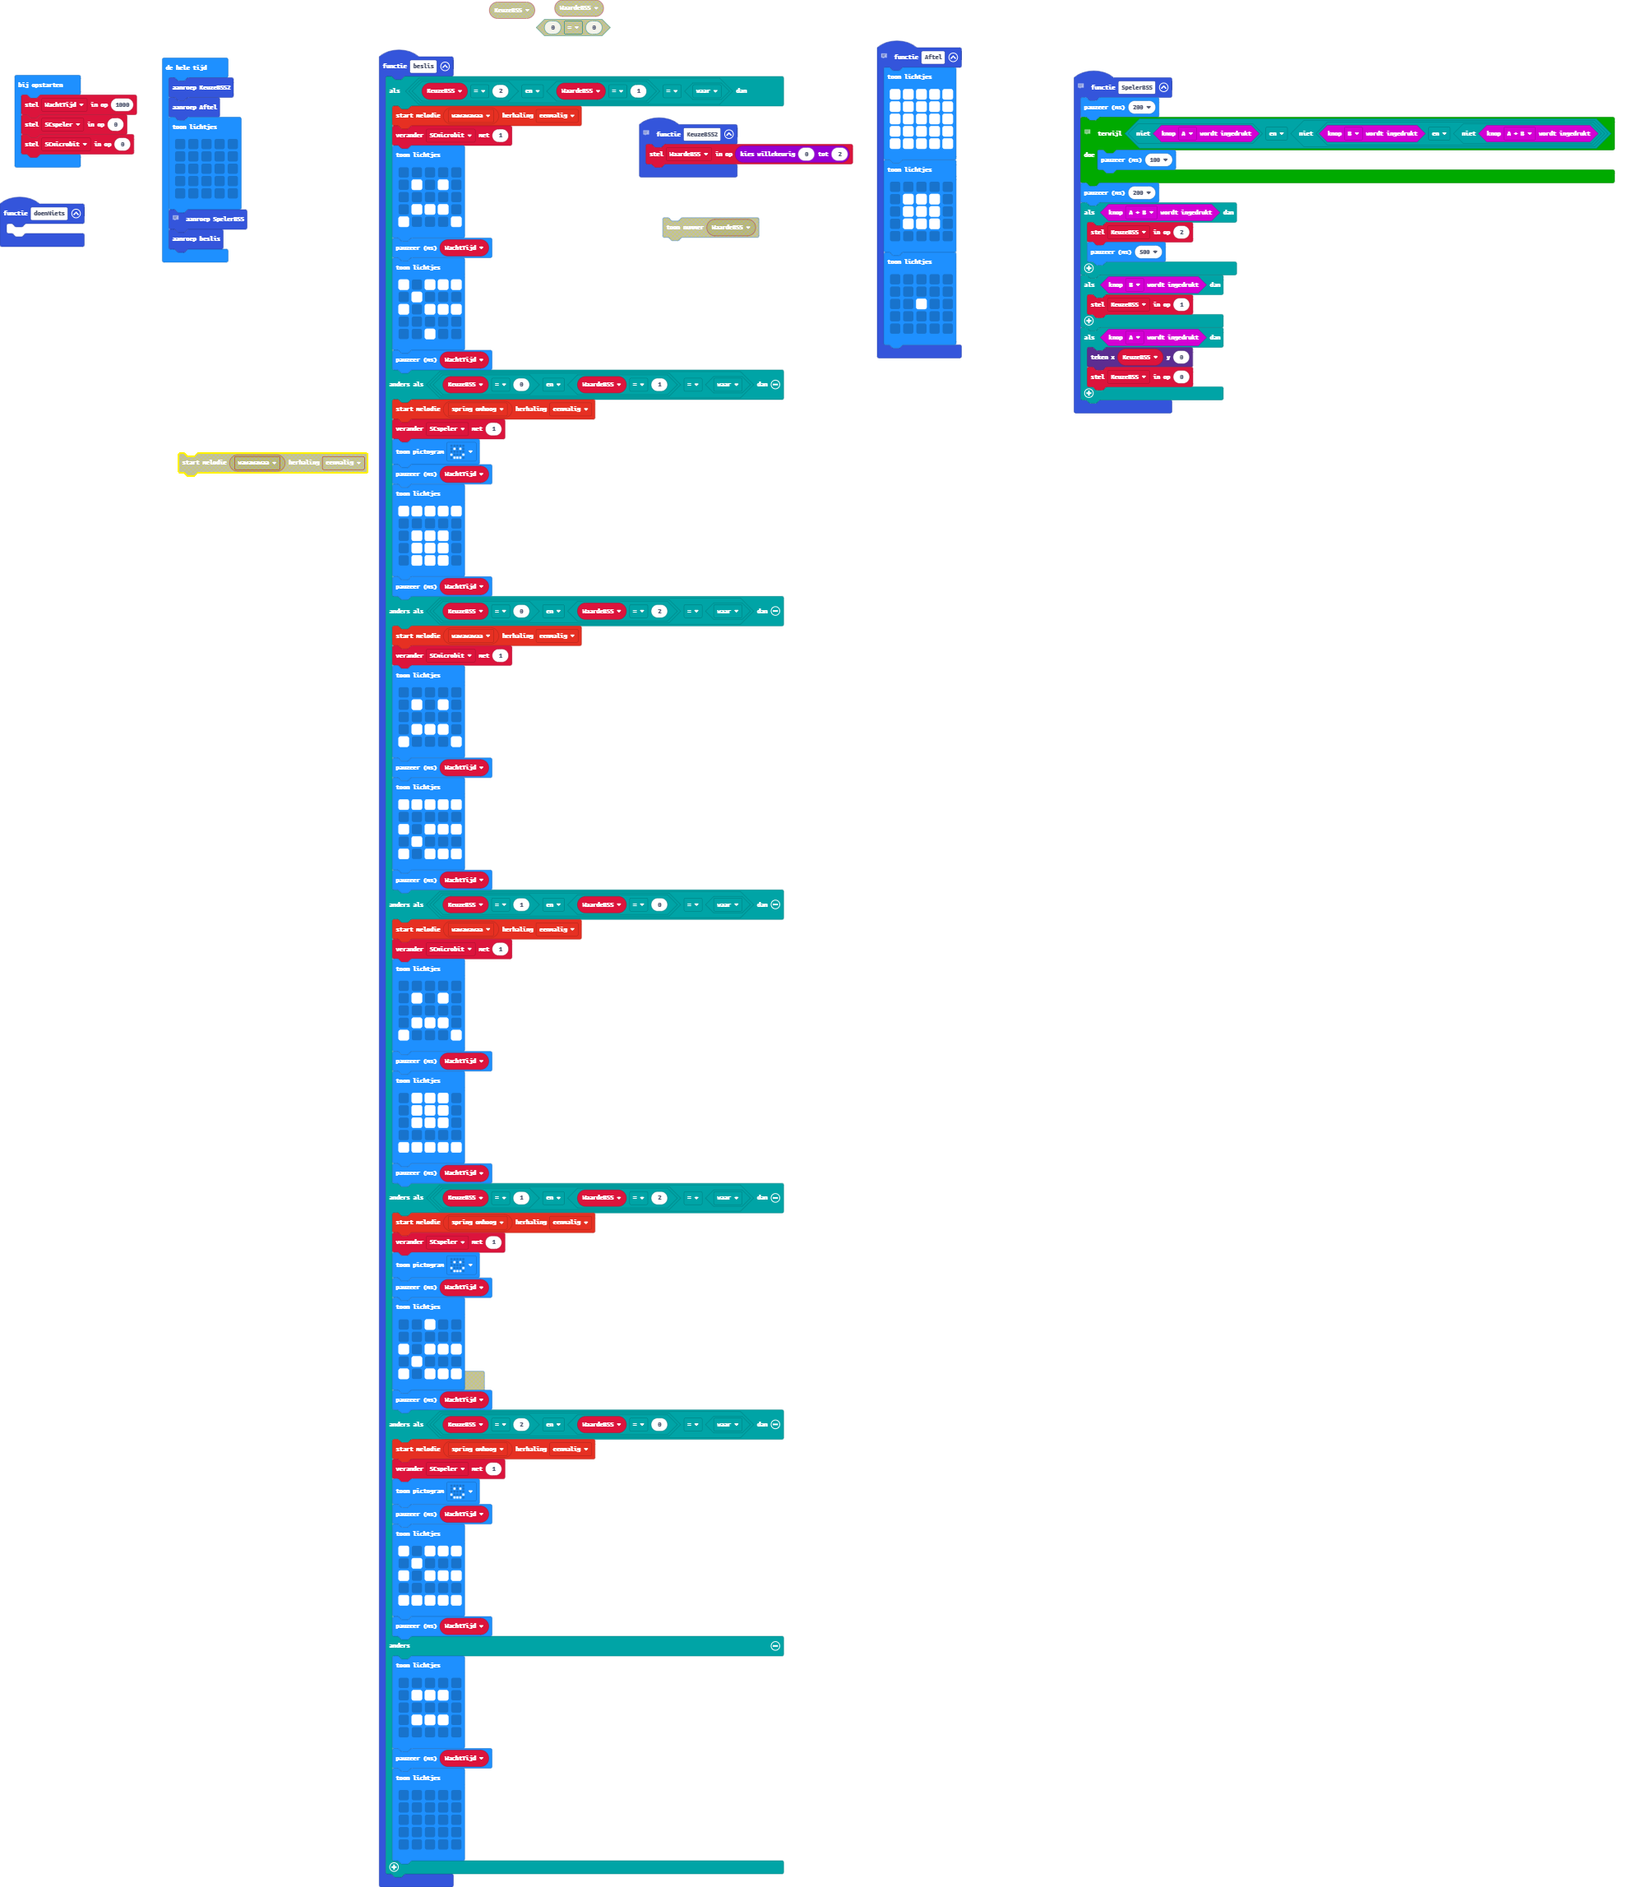
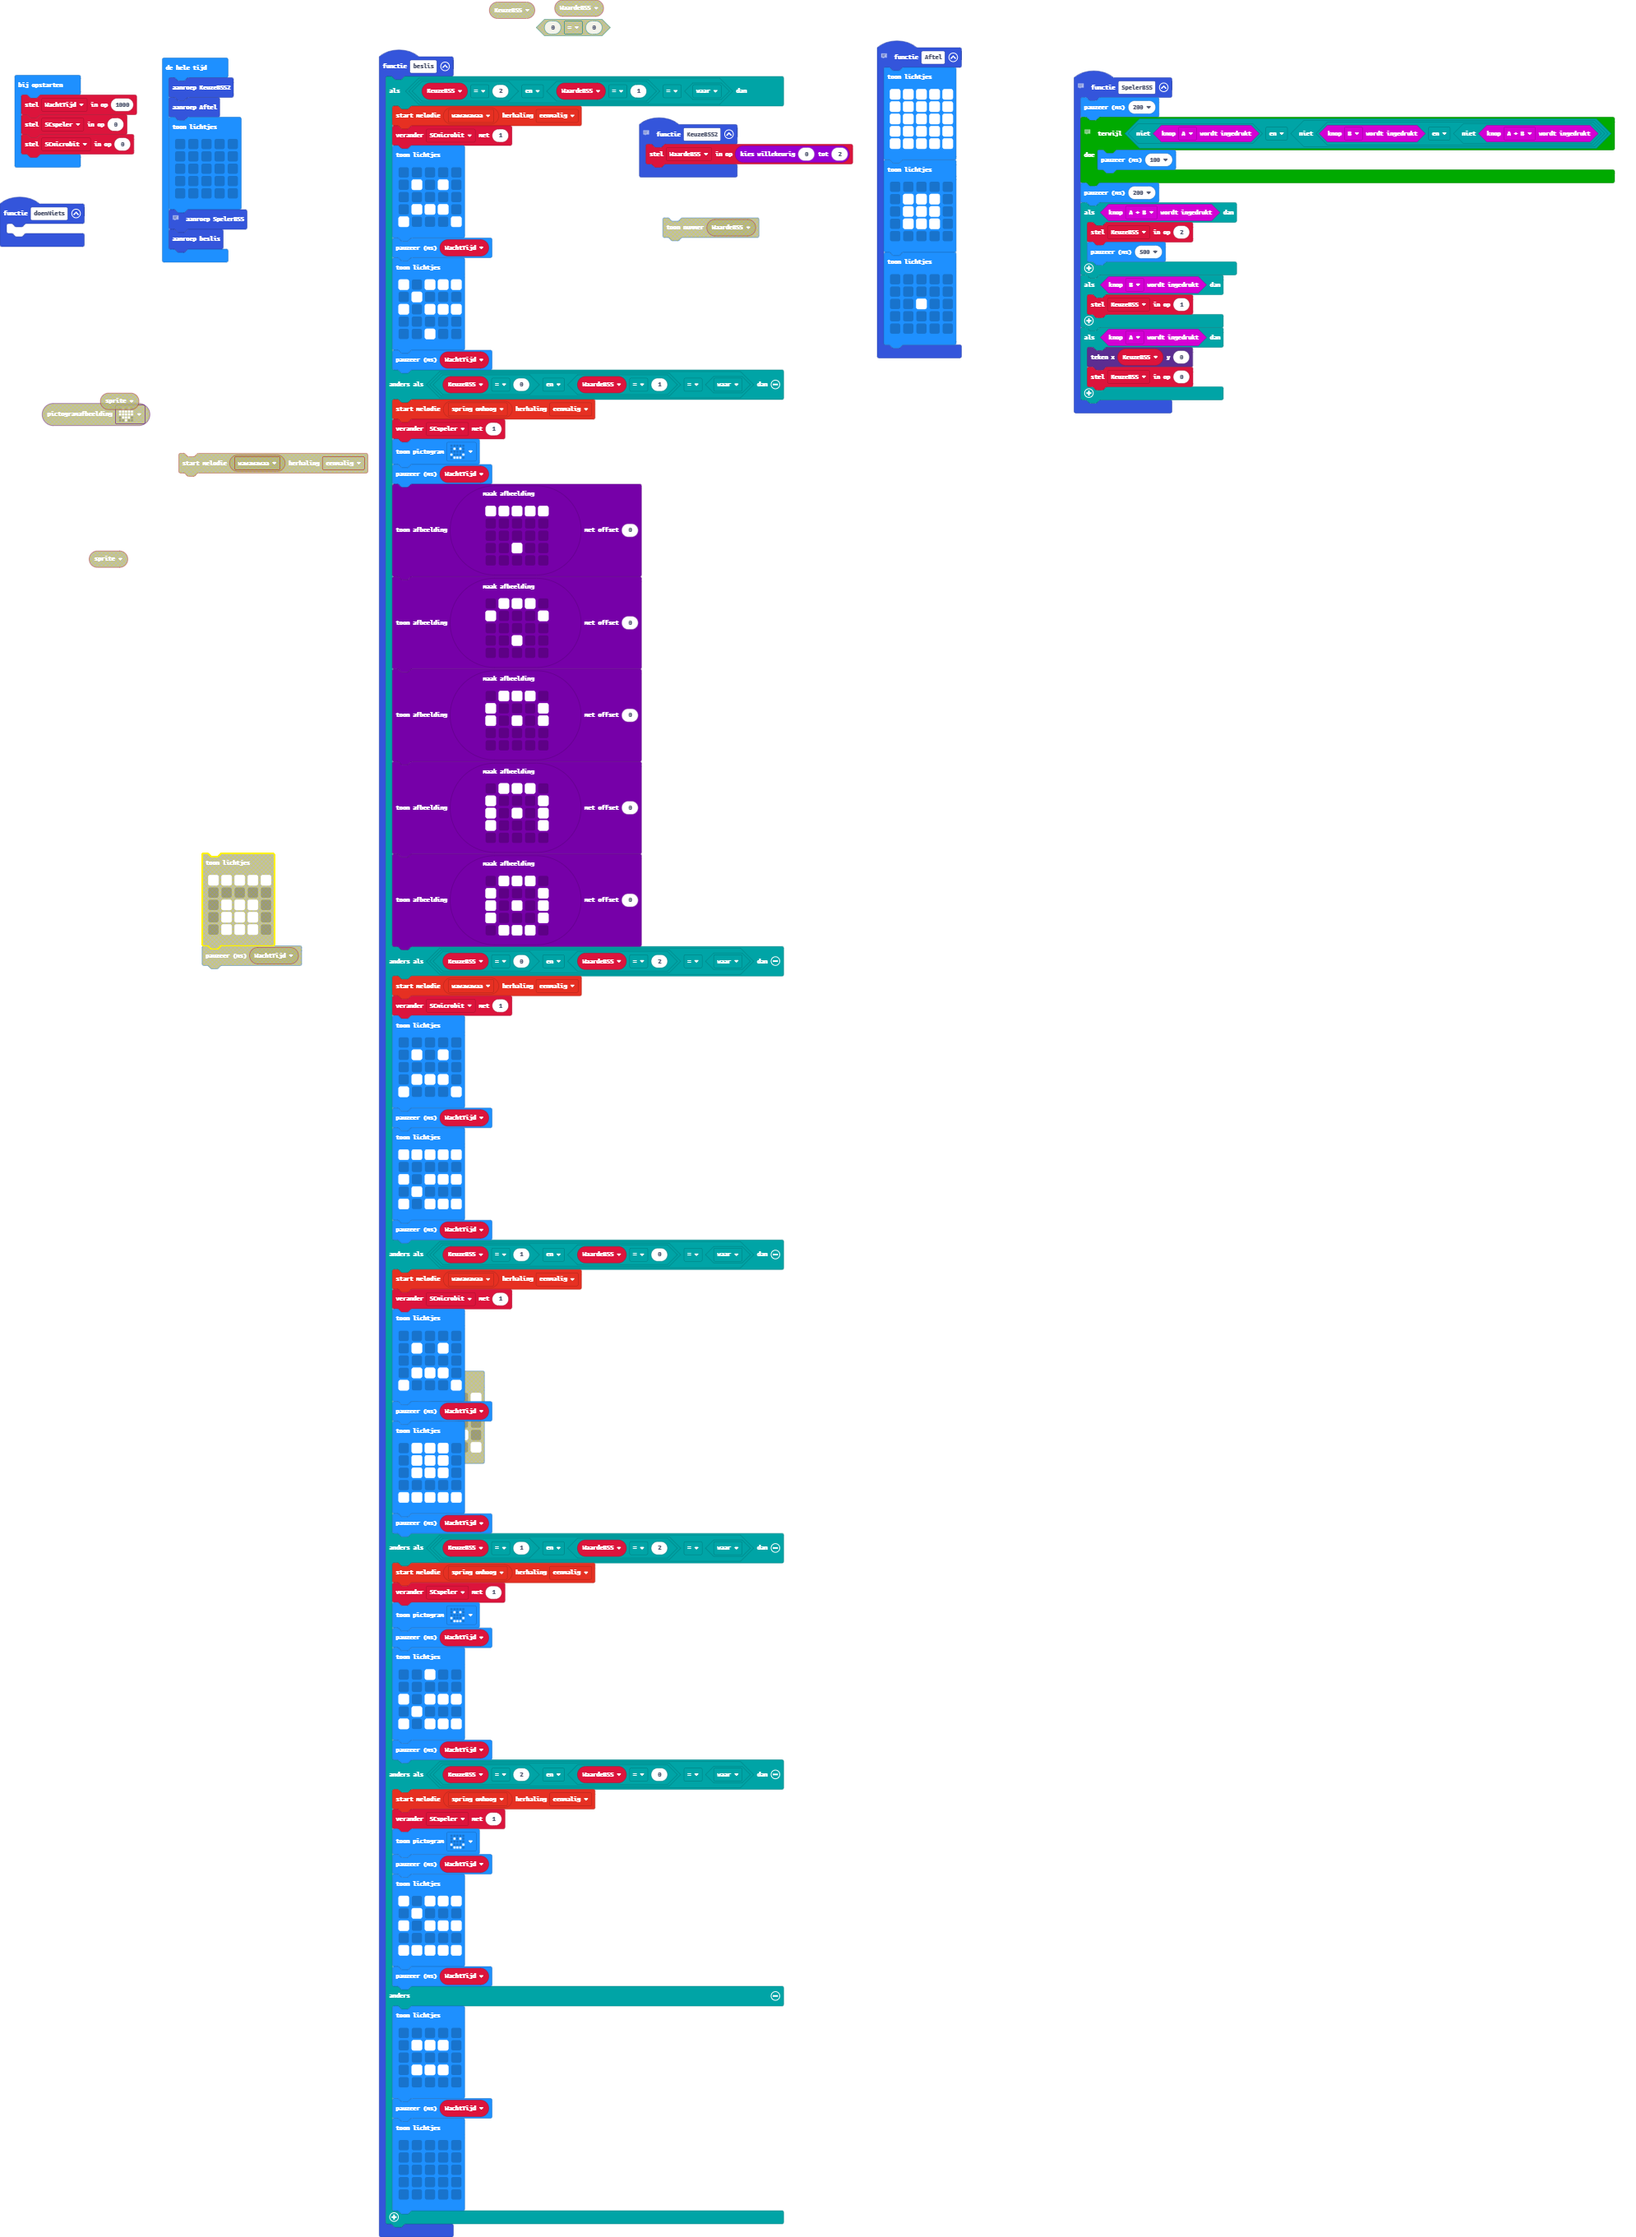
Update main.blocks, main.ts

Changed region(s): [[0.0, 0.0, 0.592, 1.0], [0.6543, 0.0309, 0.997, 0.2166], [0.1246, 0.3712, 0.1869, 0.4331]]

diff --git a/main.ts b/main.ts
@@ -74,14 +74,41 @@ function beslis () {
         SCspeler += 1
         basic.showIcon(IconNames.Happy)
         basic.pause(WachtTijd)
-        basic.showLeds(`
+        images.createImage(`
             # # # # #
             . . . . .
+            . . . . .
+            . . # . .
+            . . . . .
+            `).showImage(0)
+        images.createImage(`
             . # # # .
+            # . . . #
+            . . . . .
+            . . # . .
+            . . . . .
+            `).showImage(0)
+        images.createImage(`
             . # # # .
+            # . . . #
+            # . # . #
+            . . . . .
+            . . . . .
+            `).showImage(0)
+        images.createImage(`
             . # # # .
-            `)
-        basic.pause(WachtTijd)
+            # . . . #
+            # . # . #
+            # . . . #
+            . . . . .
+            `).showImage(0)
+        images.createImage(`
+            . # # # .
+            # . . . #
+            # . # . #
+            # . . . #
+            . # # # .
+            `).showImage(0)
     } else if ((KeuzeBSS == 0 && WaardeBSS == 2) == true) {
         music.startMelody(music.builtInMelody(Melodies.Wawawawaa), MelodyOptions.Once)
         SCmicrobit += 1
